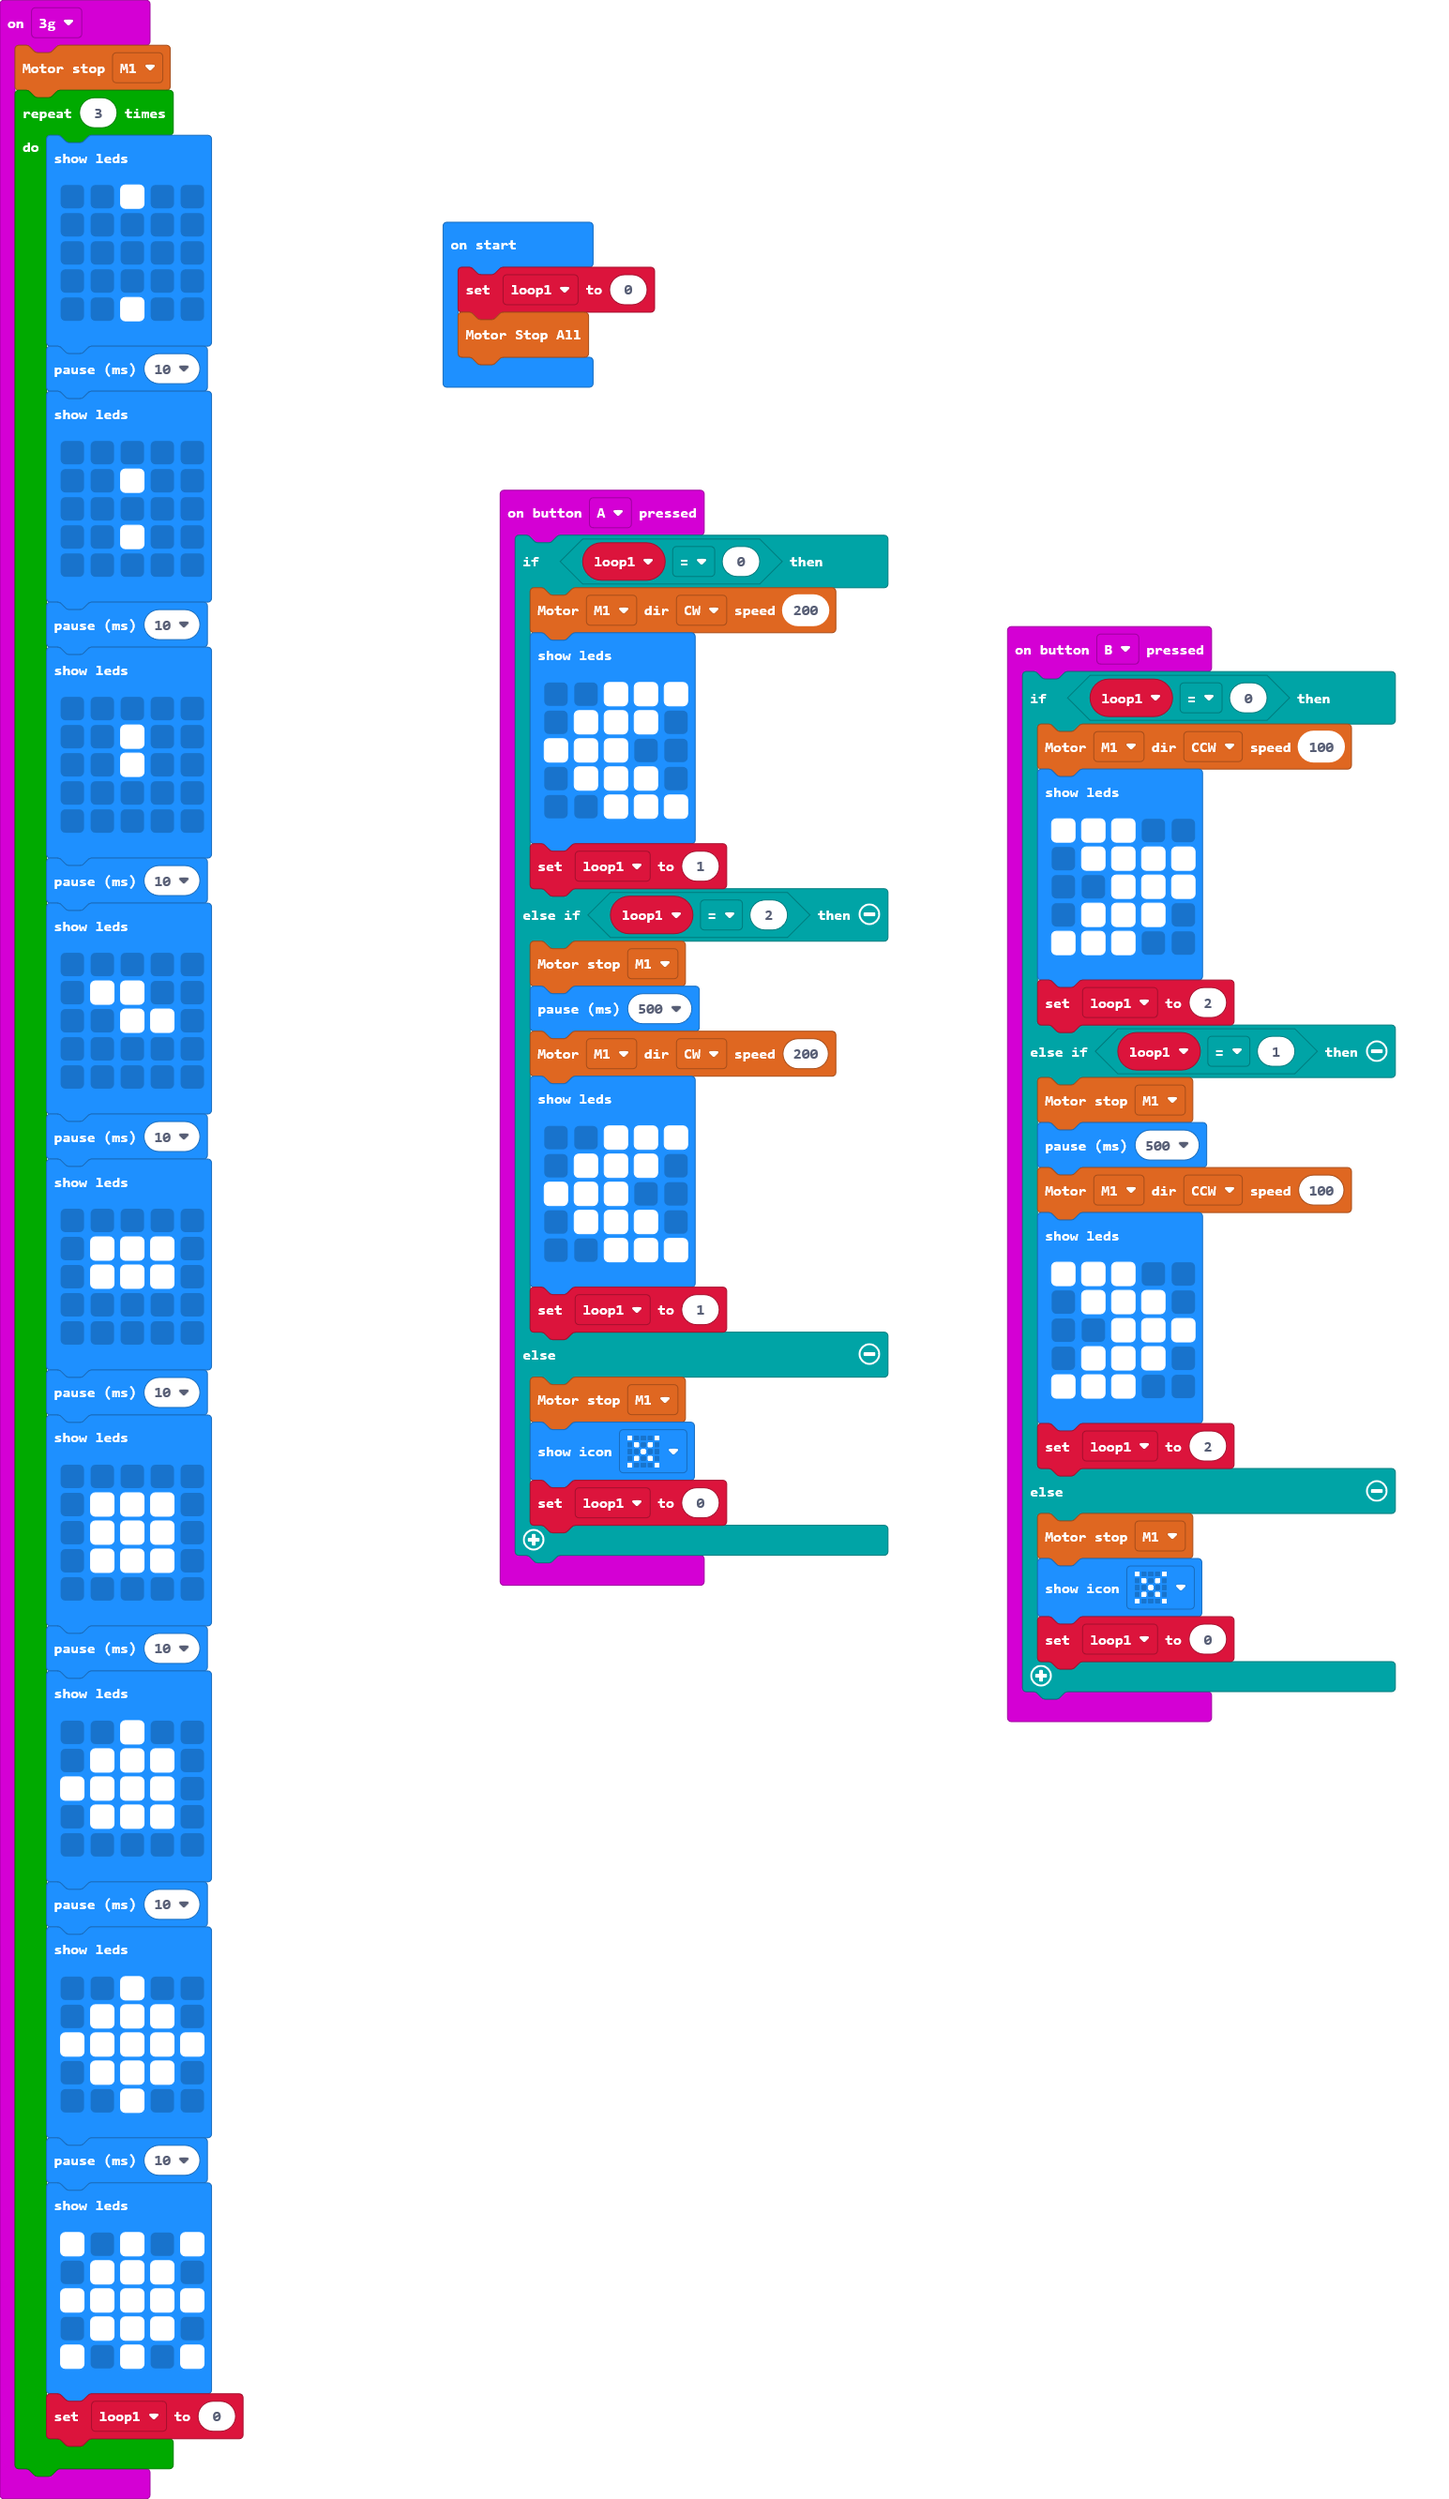
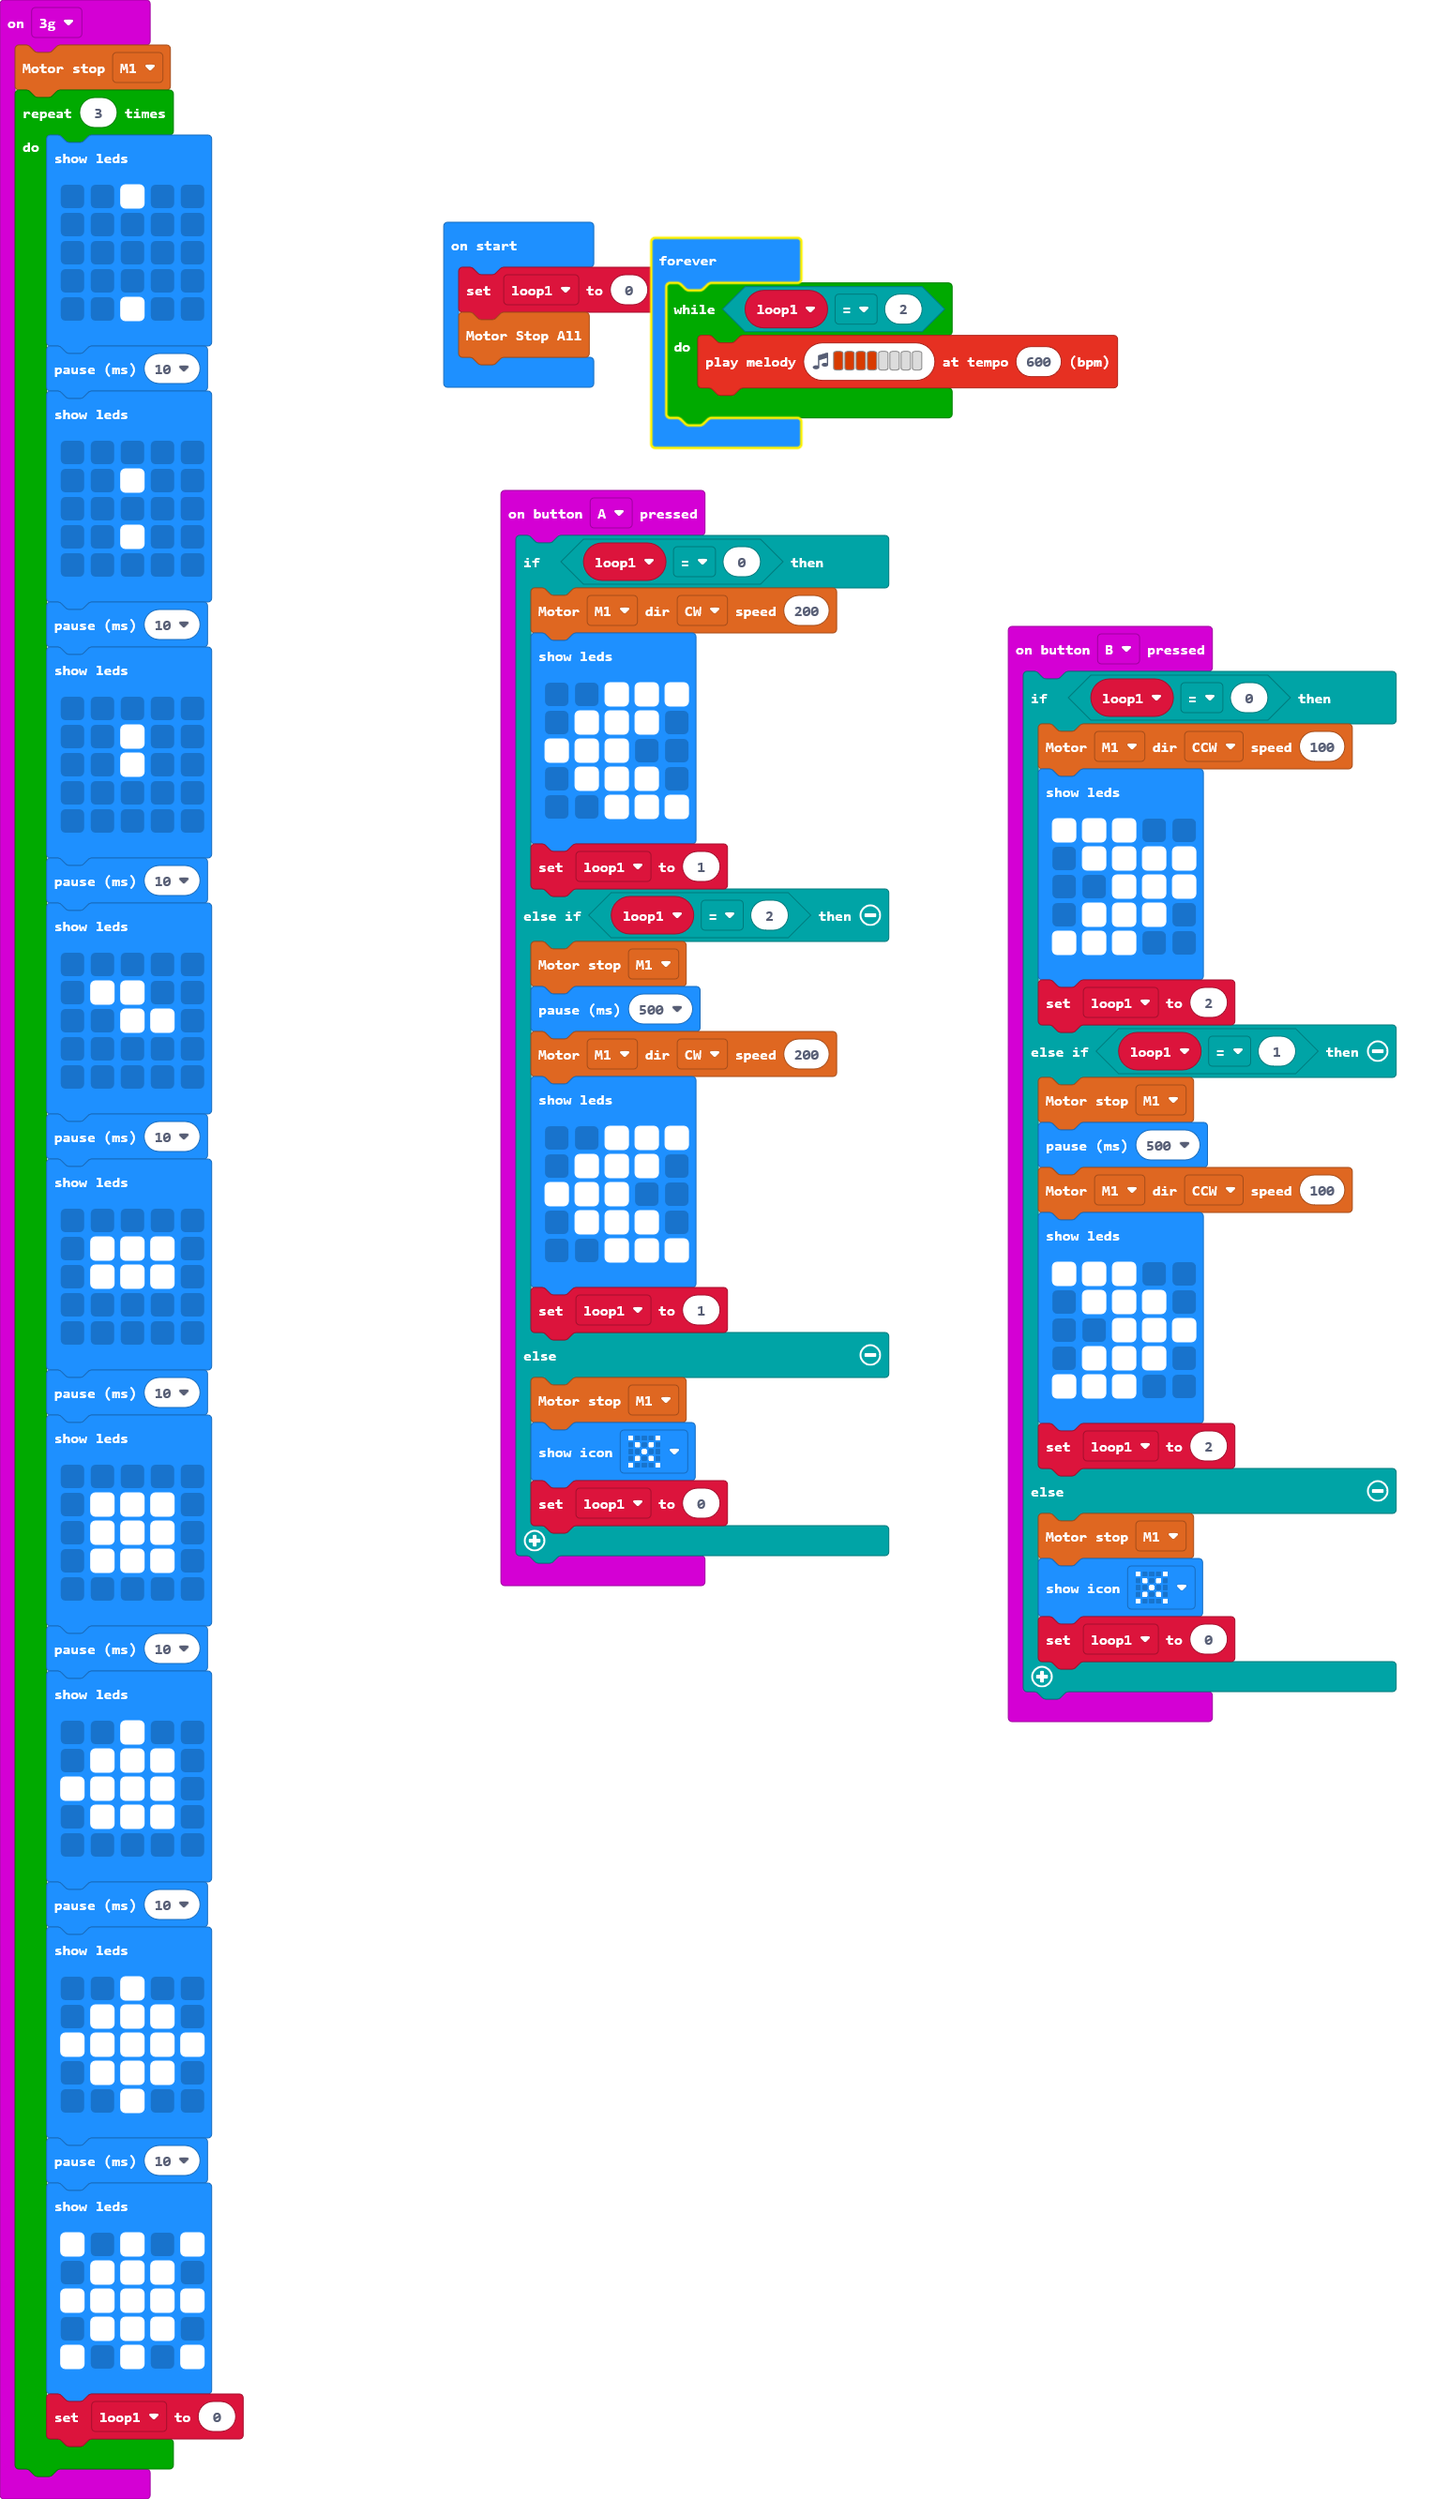
Update main.blocks, main.ts

diff --git a/main.ts b/main.ts
@@ -136,3 +136,8 @@ input.onGesture(Gesture.ThreeG, function () {
 let loop1 = 0
 loop1 = 0
 motor.motorStopAll()
+basic.forever(function () {
+    while (loop1 == 2) {
+        music.playMelody("B B B B - - - - ", 600)
+    }
+})
